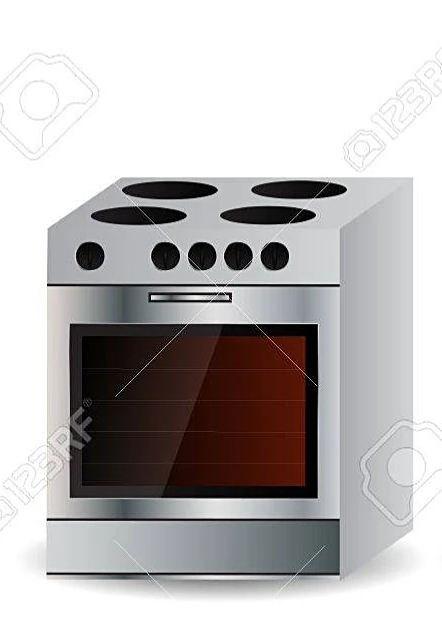
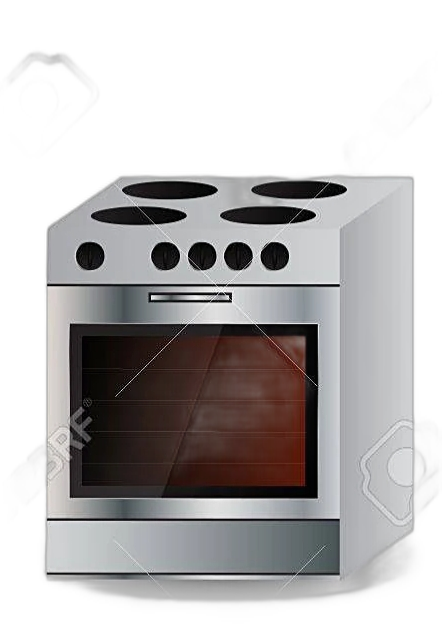
feat: imágenes transparentes y borrado de fondo en el importador
Agrega --remove-bg y --bg-model con rembg (U2Net) al importador.

Ajusta cards y detalle de producto a object-contain con fondo transparente.

Reemplaza los iconos de categorías por versiones sin fondo.

diff --git a/components/ProductCard.tsx b/components/ProductCard.tsx
@@ -63,14 +63,16 @@ export default function ProductCard({
     <div className="group block">
       <div className="bg-brand-bg rounded-2xl overflow-hidden border border-brand-blue/20 hover:border-brand-blue/40 transition-colors flex flex-col h-full">
         <Link href={productHref} className="block flex-1">
-          <div className="relative aspect-square bg-gray-50 overflow-hidden">
-            <Image
-              src={imageSrc}
-              alt={name}
-              className="w-full h-full object-cover group-hover:scale-105 transition-transform duration-300"
-              fill
-              sizes="(max-width: 640px) 100vw, (max-width: 1024px) 50vw, 25vw"
-            />
+          <div className="relative aspect-square bg-transparent overflow-hidden">
+            <div className="absolute inset-4">
+              <Image
+                src={imageSrc}
+                alt={name}
+                className="object-contain group-hover:scale-105 transition-transform duration-300"
+                fill
+                sizes="(max-width: 640px) 100vw, (max-width: 1024px) 50vw, 25vw"
+              />
+            </div>
             {oldPrice && (
               <span className="absolute top-2 right-2 bg-brand-black text-white text-xs font-bold px-2 py-1 rounded-md">
                 -{Math.round(((oldPrice - price) / oldPrice) * 100)}%

diff --git a/components/CategoryCard.tsx b/components/CategoryCard.tsx
@@ -21,15 +21,16 @@ export default function CategoryCard({
   return (
     <Link href={href} className={`block ${className}`}>
       <div className="group h-full bg-brand-bg rounded-2xl overflow-hidden border border-brand-blue/20 hover:border-brand-blue/40 transition-colors">
-        <div className={`relative bg-gray-50 overflow-hidden ${imageClassName}`}>
-          <Image
-            src={image}
-            alt={name}
-            className="w-full h-full object-cover group-hover:scale-105 transition-transform duration-300"
-            fill
-            sizes="(max-width: 640px) 100vw, (max-width: 1024px) 50vw, 25vw"
-          />
-          <div className="absolute inset-0 bg-black/10 group-hover:bg-black/20 transition-colors" />
+        <div className={`relative bg-transparent overflow-hidden ${imageClassName}`}>
+          <div className="absolute inset-4">
+            <Image
+              src={image}
+              alt={name}
+              className="object-contain group-hover:scale-105 transition-transform duration-300"
+              fill
+              sizes="(max-width: 640px) 100vw, (max-width: 1024px) 50vw, 25vw"
+            />
+          </div>
         </div>
         <div className="p-4 text-center">
           <h3 className="font-bold text-brand-black text-lg leading-tight">{name}</h3>

diff --git a/app/producto/[id]/page.tsx b/app/producto/[id]/page.tsx
@@ -141,7 +141,7 @@ export default function ProductPage() {
           </div>
         ) : (
           <div className="grid grid-cols-1 md:grid-cols-2 gap-8">
-            <div className="relative aspect-square bg-white rounded-2xl overflow-hidden border border-gray-100">
+            <div className="relative aspect-square bg-brand-bg rounded-2xl overflow-hidden border border-brand-blue/20">
               <div className="absolute inset-6">
                 <Image
                   src={imageSrc}
